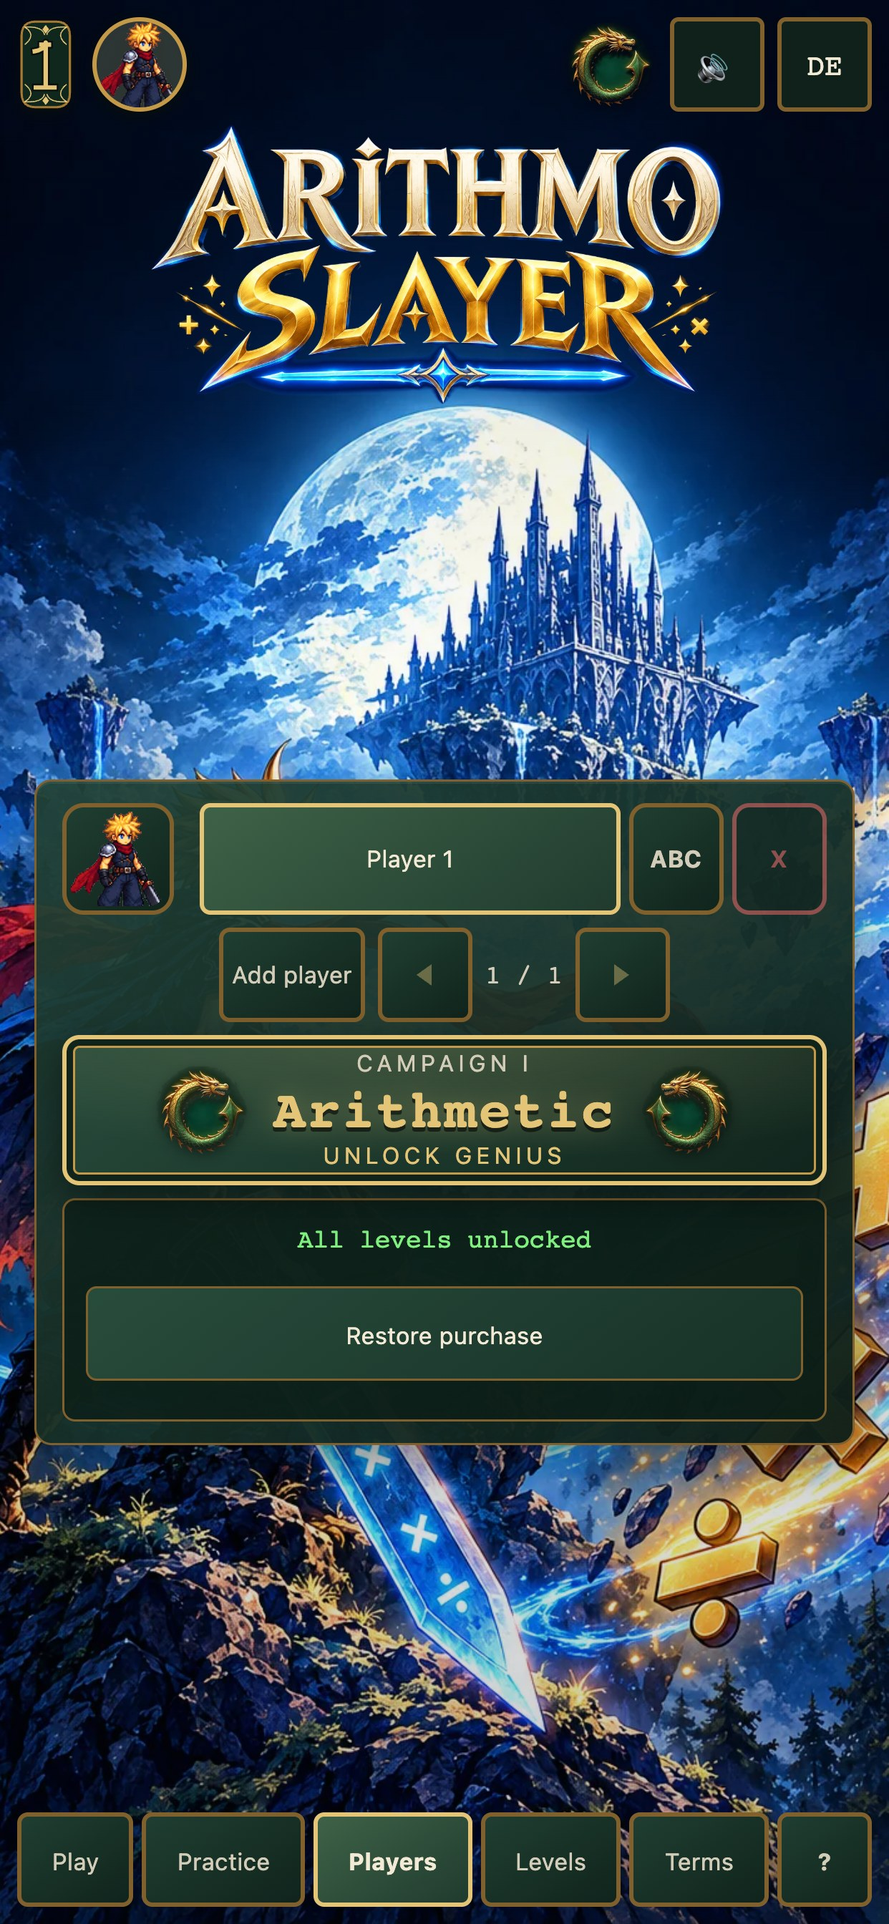
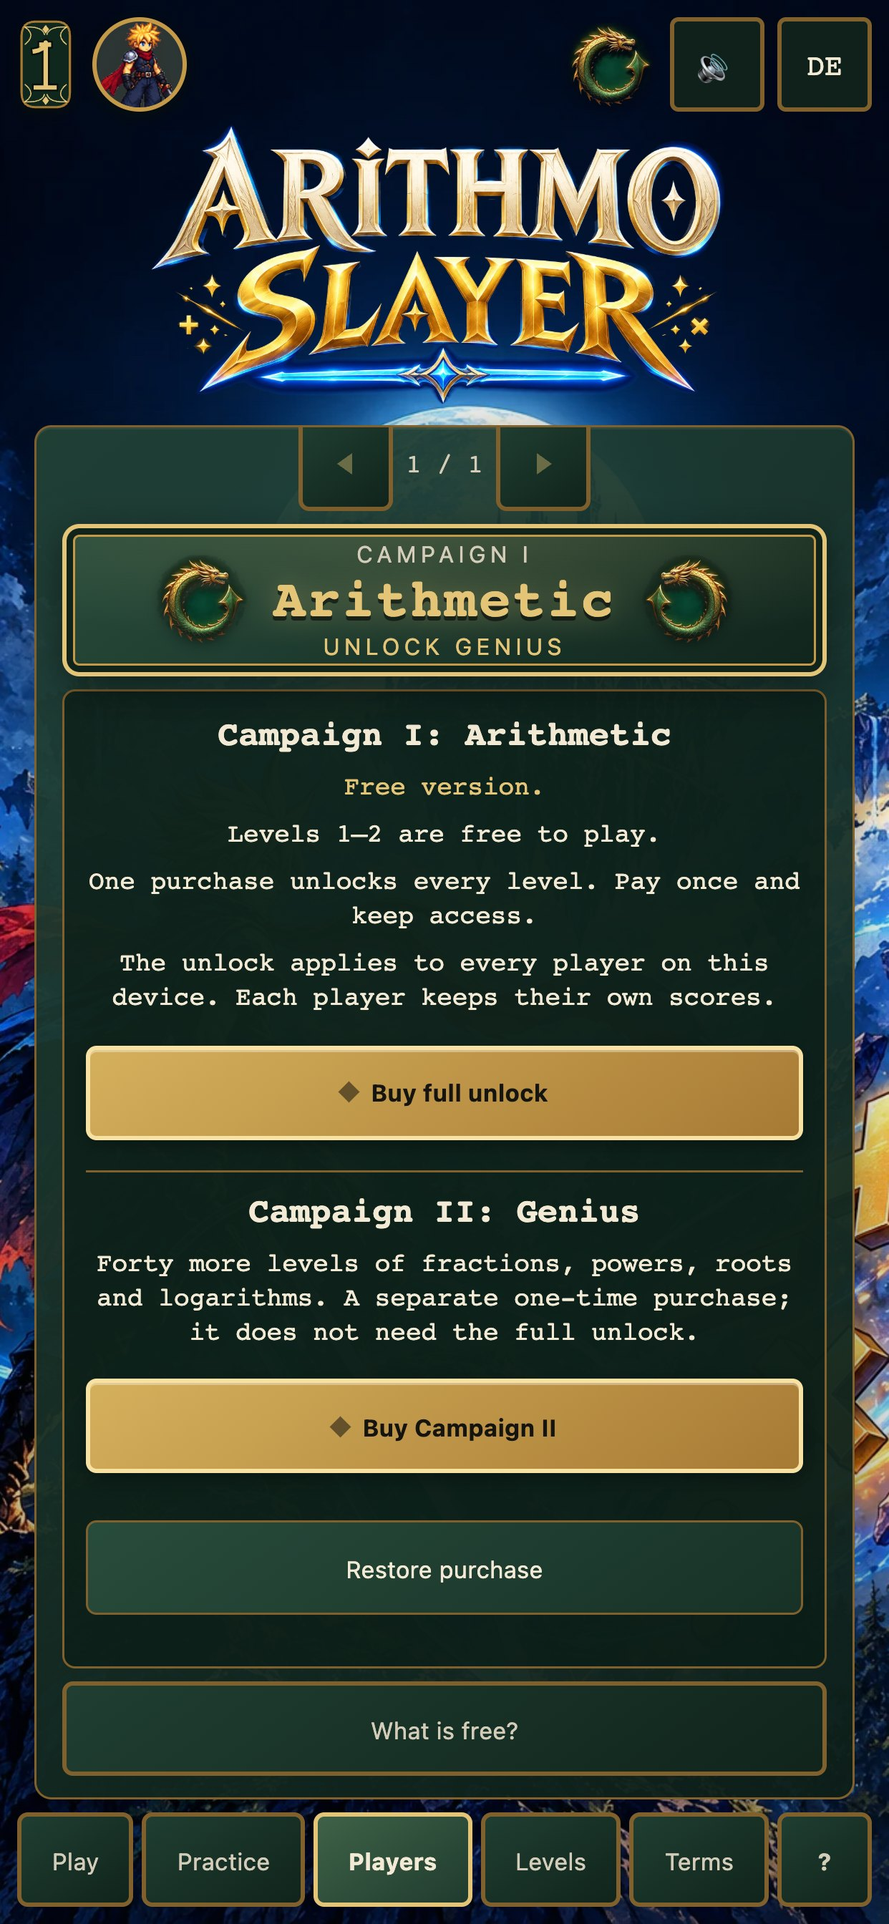
docs(ffm): manual, promo, review notes and review shots for an independent Campaign II
Manual (EN/DE): Campaign II needs no Campaign I progress or full unlock, the switch is
always on the Players page, both products are listed side by side with one Restore.
Promo: FAQ and comparison drop "after level 40" and say no full unlock is needed; the web
switch is in the profile. RELEASING.md App Review notes list both products, reachable on a
fresh install. store-art/review: recaptured on a fresh install (no level cleared, nothing
bought) showing both products on the Players page; the level-40 caveat is gone.
capture-review.py seeds a fresh install by default (FULL=1 / UPTO=n optional).

diff --git a/sites/ffm/mobile/legal/manual.de.html b/sites/ffm/mobile/legal/manual.de.html
@@ -44,8 +44,8 @@
 <h2 id="manual-campaign2">Abenteuer II: Genie</h2>
 <p>Abenteuer II hat 40 Level in acht Akten zu je fünf: Brüche, weitere Brüche, Potenzen, Wurzeln, Potenzgesetze, Wurzelterme, Logarithmen und eine abschließende Synthese. Jeder Akt beginnt mit einer kurzen Erklärung und einem Beispiel mit Rechenweg.</p>
 <p>Jede Aufgabe hat vier Antwortmöglichkeiten. Der Timer gibt mehr Zeit als die gewählte Schwierigkeit, vom 1,2-Fachen in Level 1 bis zum Doppelten in Level 40. Der Held beginnt mit allen Fähigkeiten. Der letzte Unhold von Level 10, 20, 30 und 40 ist eine Bossrunde.</p>
-<p>Der Abenteuer-Schalter auf der Spieler-Seite erscheint, sobald der aktive Spieler Level 40 von Abenteuer I geschafft hat, oder sofort auf einem Gerät, das Abenteuer II besitzt. Er nennt das gespielte Abenteuer, Rechnen oder Genie, und ein Tipp wechselt es. Die Wahl gilt pro Spieler; ist Genie gewählt, zeigt der Startbildschirm das Bild von Abenteuer II.</p>
-<p>Abenteuer II ist ein eigener Einmalkauf: „Genie freischalten“ auf dem Schalter öffnet ihn (siehe <a href="#manual-purchase">Kauf und Wiederherstellen</a>). Geschaffte Level von Abenteuer II werden pro Spieler auf diesem Gerät gespeichert; Abenteuer II speichert keine Punkte.</p>
+<p>Abenteuer II hängt nicht von Abenteuer I ab: Es lässt sich schon auf einer frischen Installation kaufen und spielen, ohne vorher ein Level zu schaffen und ohne Vollversion. Der Abenteuer-Schalter auf der Spieler-Seite ist immer da. Er nennt das gespielte Abenteuer, Rechnen oder Genie, und ein Tipp wechselt es. Die Wahl gilt pro Spieler; ist Genie gewählt, zeigt der Startbildschirm das Bild von Abenteuer II, und ein Tipp darauf öffnet die Spieler-Seite.</p>
+<p>Abenteuer II ist ein eigener Einmalkauf und steht auf der Spieler-Seite neben der Vollversion; auch „Genie freischalten“ auf dem Schalter öffnet ihn (siehe <a href="#manual-purchase">Kauf und Wiederherstellen</a>). Geschaffte Level von Abenteuer II werden pro Spieler auf diesem Gerät gespeichert; Abenteuer II speichert keine Punkte.</p>
 </section>
 <section data-manual-section="difficulty">
 <h2 id="manual-difficulty">Schwierigkeit</h2>
@@ -100,7 +100,7 @@
 <p>Die Spieler-Seite auf dem Titel verwaltet lokale Familien-Spieler: umbenennen, löschen und wechseln, und mit der Vollversion weitere Spieler hinzufügen. Jeder Spieler hat eigenen Fortschritt, eigene Punkte, eigene Übungsabzeichen, einen eigenen Helden und eine eigene Abenteuer-Wahl.</p>
 <p>Tippe auf das Porträt des aktiven Spielers, um eine Heldenfarbe zu wählen. Der getragene Held behält einen dicken Goldrahmen, der markierte bekommt einen dünnen Goldrahmen; „Held wechseln“ legt ihn an. Ari ist kostenlos; die anderen Heldenfarben gehören zur Vollversion.</p>
 <p>Ein Wechsel ist nur auf dem Titelbildschirm möglich und blockiert, solange Daten geschrieben werden oder ein Level startet. Mindestens ein Spieler muss bleiben; beim Löschen werden die Daten dieses Spielers entfernt.</p>
-<p>Auf der Spieler-Seite liegen auch der Abenteuer-Schalter und der Kaufbereich mit „Kauf wiederherstellen“. Ein Kauf schaltet Level 3–60 für alle Spieler dieses Geräts frei; die Punkte bleiben beim jeweiligen Spieler. Alles wird lokal auf dem Gerät gespeichert und ist in der Geräte- oder iCloud-Sicherung des Betriebssystems enthalten. Es gibt kein Konto.</p>
+<p>Auf der Spieler-Seite liegen auch der Abenteuer-Schalter und der Kaufbereich: die Vollversion (Abenteuer I) und Abenteuer II nebeneinander, jedes mit eigenem Kaufknopf, und ein „Kauf wiederherstellen“ für beide. Ein Kauf schaltet Level 3–60 für alle Spieler dieses Geräts frei; die Punkte bleiben beim jeweiligen Spieler. Alles wird lokal auf dem Gerät gespeichert und ist in der Geräte- oder iCloud-Sicherung des Betriebssystems enthalten. Es gibt kein Konto.</p>
 </section>
 <section data-manual-section="training">
 <h2 id="manual-training">Trainingsarten</h2>
@@ -118,7 +118,7 @@
 </section>
 <section data-manual-section="purchase">
 <h2 id="manual-purchase">Kauf und Wiederherstellen</h2>
-<p>Level 1–2 sind kostenlos. Der einmalige, nicht verbrauchbare Kauf schaltet Level 3–60, alle Heldenfarben und weitere Spieler frei. Abenteuer II ist ein zweiter, eigener Einmalkauf. Es gibt kein Abo und keine laufenden Kosten. Der Store zeigt den lokalen Preis und rechnet über Apple oder Google ab. Es gibt kein Backend und keinen Drittanbieter für Käufe.</p>
+<p>Level 1–2 sind kostenlos. Der einmalige, nicht verbrauchbare Kauf schaltet Level 3–60, alle Heldenfarben und weitere Spieler frei. Abenteuer II ist ein zweiter, eigener Einmalkauf; keiner der beiden Käufe setzt den anderen voraus. Es gibt kein Abo und keine laufenden Kosten. Der Store zeigt den lokalen Preis und rechnet über Apple oder Google ab. Es gibt kein Backend und keinen Drittanbieter für Käufe.</p>
 <p>Kauf und Wiederherstellung verlangen zuerst von einem Erwachsenen das Lösen einer ausgeschriebenen Multiplikation (Elternkontrolle).</p>
 <p>Der Store meldet Erfolg, Abbruch, Ausstehend oder Ask-to-Buy, bereits gekauft oder einen Fehler. Ein ausstehender Kauf schaltet die Level frei, sobald der Store ihn bestätigt.</p>
 <p>„Kauf wiederherstellen“ auf der Spieler-Seite stellt beide Käufe, die Vollversion und Abenteuer II, bei einer Neuinstallation oder auf einem neuen Gerät mit demselben Store-Konto wieder her. Die Freischaltungen werden für Offline-Spiel zwischengespeichert, beim Start und Fortsetzen aus dem Store aktualisiert und bei einer Rückerstattung entzogen. Beide Käufe gelten für das ganze Gerät.</p>

diff --git a/sites/ffm/mobile/legal/manual.en.html b/sites/ffm/mobile/legal/manual.en.html
@@ -44,8 +44,8 @@
 <h2 id="manual-campaign2">Campaign II: Genius</h2>
 <p>Campaign II has 40 levels in eight acts of five: fractions, more fractions, powers, roots, exponent laws, radicals, logarithms and a final synthesis. Each act opens with a short explanation and a worked example.</p>
 <p>Every question has four answer choices. The timer gives more time than the chosen difficulty, from 1.2 times at level 1 up to twice as long at level 40. The hero starts with every ability. The last fiend of levels 10, 20, 30 and 40 is a boss round.</p>
-<p>The campaign switch on the Players page appears once the active player has cleared level 40 of Campaign I, or at once on a device that owns Campaign II. It names the campaign being played, Arithmetic or Genius, and a tap changes it. The choice is kept for each player; while Genius is chosen, the title screen shows the Campaign II picture.</p>
-<p>Campaign II is a separate one-time purchase: “Unlock Genius” on the switch opens it (see <a href="#manual-purchase">Payment and restore</a>). Cleared Campaign II levels are saved for each player on this device; Campaign II records no scores.</p>
+<p>Campaign II does not depend on Campaign I: it can be bought and played on a fresh install, without clearing any level first and without the full unlock. The campaign switch on the Players page is always there. It names the campaign being played, Arithmetic or Genius, and a tap changes it. The choice is kept for each player; while Genius is chosen, the title screen shows the Campaign II picture, and a tap on it opens the Players page.</p>
+<p>Campaign II is a separate one-time purchase, listed on the Players page next to the full unlock; “Unlock Genius” on the switch opens it too (see <a href="#manual-purchase">Payment and restore</a>). Cleared Campaign II levels are saved for each player on this device; Campaign II records no scores.</p>
 </section>
 <section data-manual-section="difficulty">
 <h2 id="manual-difficulty">Difficulty</h2>
@@ -100,7 +100,7 @@
 <p>The Players page on the title manages local family players: rename, delete and switch, and, with the full unlock, add more players. Each player has separate progress, scores, practice badges, hero and campaign choice.</p>
 <p>Tap the active player's portrait to choose a hero colour scheme. The hero you wear keeps a thick gold frame and the one you highlight gets a thin gold frame; Change hero puts it on. Ari is free; the other colour schemes come with the full unlock.</p>
 <p>Switch players only on the title screen; switching is blocked while data is being written or a level is starting. At least one player must remain, and deleting a player removes that player's data.</p>
-<p>The Players page also holds the campaign switch and the purchase panel with Restore purchase. One purchase unlocks levels 3–60 for every player on the device; scores stay with each player. Everything is stored locally on the device and is included in the operating system's device or iCloud backup. There is no account.</p>
+<p>The Players page also holds the campaign switch and the purchase panel: the full unlock (Campaign I) and Campaign II side by side, each with its own buy button, and one Restore purchase for both. One purchase unlocks levels 3–60 for every player on the device; scores stay with each player. Everything is stored locally on the device and is included in the operating system's device or iCloud backup. There is no account.</p>
 </section>
 <section data-manual-section="training">
 <h2 id="manual-training">Training modes</h2>
@@ -118,7 +118,7 @@
 </section>
 <section data-manual-section="purchase">
 <h2 id="manual-purchase">Payment and restore</h2>
-<p>Levels 1–2 are free. The one-time, non-consumable purchase unlocks levels 3–60, all hero themes and adding more players. Campaign II is a second one-time purchase of its own. There is no subscription and no recurring charge. The store shows the local price and bills Apple or Google. There is no backend and no third-party purchase service.</p>
+<p>Levels 1–2 are free. The one-time, non-consumable purchase unlocks levels 3–60, all hero themes and adding more players. Campaign II is a second one-time purchase of its own; neither purchase needs the other. There is no subscription and no recurring charge. The store shows the local price and bills Apple or Google. There is no backend and no third-party purchase service.</p>
 <p>Purchase and restore first ask an adult to solve a written multiplication (parental gate).</p>
 <p>The store reports success, cancellation, pending or Ask-to-Buy, already owned, or an error. A pending purchase unlocks the levels once the store confirms it.</p>
 <p>Restore purchase on the Players page recovers both purchases, the full unlock and Campaign II, on a fresh install or a new device with the same store account. The entitlement is cached for offline play, refreshed from the store on launch and resume, and revoked on refund. Both purchases apply to the whole device.</p>

diff --git a/sites/ffm/static/promo/promo.js b/sites/ffm/static/promo/promo.js
@@ -278,7 +278,7 @@ export const DICTIONARY = {
   'prices.compare.r9app': { de: 'Nein, in der App ausgeblendet', en: 'No, hidden in the app' },
   'prices.compare.row10': { de: 'Abenteuer II: Genie', en: 'Campaign II: Genius' },
   'prices.compare.r10web': { de: 'Ja, im Abo enthalten', en: 'Yes, included in the subscription' },
-  'prices.compare.r10app': { de: 'Eigener Einmalkauf', en: 'Separate one-time purchase' },
+  'prices.compare.r10app': { de: 'Eigener Einmalkauf, auch ohne Vollversion', en: 'Separate one-time purchase, no full unlock needed' },
   'prices.compare.row8': { de: 'Kündigung', en: 'Cancellation' },
   'prices.compare.r8web': { de: 'Jederzeit im Konto', en: 'Anytime in your account' },
   'prices.compare.r8app': { de: 'Nicht nötig – kein Abo', en: 'Not needed – no subscription' },
@@ -349,8 +349,8 @@ export const DICTIONARY = {
   'faq.q7': { de: 'Brauchen Kinder in der App ein Konto?', en: 'Do kids need an account in the app?' },
   'faq.q8': { de: 'Was ist Abenteuer II: Genie?', en: 'What is Campaign II: Genius?' },
   'faq.a8': {
-    de: 'Das zweite Abenteuer nach Level 40: 40 Level mit Brüchen, Potenzen, Wurzeln und Logarithmen, mit vier Antworten pro Aufgabe und mehr Zeit. Im Web-Abo ist es enthalten, in der App ist es ein eigener Einmalkauf. Gewechselt wird auf der Spieler-Seite der App, im Web auf dem Startbildschirm.',
-    en: 'The second campaign after level 40: 40 levels of fractions, powers, roots and logarithms, with four answers per question and more time. It is included in the web subscription and a separate one-time purchase in the app. You switch campaigns on the app\'s Players page, or on the title screen on the web.',
+    de: 'Das zweite Abenteuer: 40 Level mit Brüchen, Potenzen, Wurzeln und Logarithmen, mit vier Antworten pro Aufgabe und mehr Zeit. Es hängt nicht vom ersten ab und ist sofort spielbar, ohne vorher ein Level zu schaffen. Im Web-Abo ist es enthalten; in der App ist es ein eigener Einmalkauf, der die Vollversion nicht voraussetzt. Gewechselt wird auf der Spieler-Seite der App, im Web im Profil.',
+    en: 'The second campaign: 40 levels of fractions, powers, roots and logarithms, with four answers per question and more time. It does not depend on the first one and can be played straight away, with no level to clear first. It is included in the web subscription; in the app it is a separate one-time purchase that does not need the full unlock. You switch campaigns on the app\'s Players page, or in your profile on the web.',
   },
   'faq.a7': { de: 'Nein. In der App legst du lokale Profile an – ohne E-Mail-Adresse und ohne Passwort.', en: 'No. In the app you create local profiles – no email address, no password.' },
 

diff --git a/sites/ffm/static/promo/index.html b/sites/ffm/static/promo/index.html
@@ -526,7 +526,7 @@
               <tr>
                 <th scope="row" data-i18n="prices.compare.row10">Abenteuer II: Genie</th>
                 <td data-i18n="prices.compare.r10web">Ja, im Abo enthalten</td>
-                <td data-i18n="prices.compare.r10app">Eigener Einmalkauf</td>
+                <td data-i18n="prices.compare.r10app">Eigener Einmalkauf, auch ohne Vollversion</td>
               </tr>
               <tr>
                 <th scope="row" data-i18n="prices.compare.row8">Kündigung</th>
@@ -654,7 +654,7 @@
           </details>
           <details class="faq-item reveal">
             <summary data-i18n="faq.q8">Was ist Abenteuer II: Genie?</summary>
-            <p data-i18n="faq.a8">Das zweite Abenteuer nach Level 40: 40 Level mit Brüchen, Potenzen, Wurzeln und Logarithmen, mit vier Antworten pro Aufgabe und mehr Zeit. Im Web-Abo ist es enthalten, in der App ist es ein eigener Einmalkauf. Gewechselt wird auf der Spieler-Seite der App, im Web auf dem Startbildschirm.</p>
+            <p data-i18n="faq.a8">Das zweite Abenteuer: 40 Level mit Brüchen, Potenzen, Wurzeln und Logarithmen, mit vier Antworten pro Aufgabe und mehr Zeit. Es hängt nicht vom ersten ab und ist sofort spielbar, ohne vorher ein Level zu schaffen. Im Web-Abo ist es enthalten; in der App ist es ein eigener Einmalkauf, der die Vollversion nicht voraussetzt. Gewechselt wird auf der Spieler-Seite der App, im Web im Profil.</p>
           </details>
         </div>
       </div>

diff --git a/sites/ffm/static/promo/promo.test.js b/sites/ffm/static/promo/promo.test.js
@@ -732,4 +732,11 @@ test('promo copy uses the game\'s own names and current facts', () => {
   assert.doesNotMatch(all, /Drache als Boss|dragon as the boss|am Ende des Feldzugs/, 'the dragon is a combo ability, not a boss');
   assert.doesNotMatch(all, /Die Apps erscheinen später|apps will arrive in the stores later/,
     'the iPhone app is already live');
+  // Campaign II is independent of Campaign I (owner decision after #586): no level-40 gate,
+  // no full unlock needed in the app, and the web switch is in the profile.
+  assert.doesNotMatch(DICTIONARY['faq.a8'].de + DICTIONARY['faq.a8'].en, /Level 40|level 40|Startbildschirm|title screen/);
+  assert.match(DICTIONARY['faq.a8'].en, /does not need the full unlock/);
+  assert.match(DICTIONARY['faq.a8'].de, /die Vollversion nicht voraussetzt/);
+  assert.match(DICTIONARY['faq.a8'].en, /in your profile on the web/);
+  assert.match(DICTIONARY['prices.compare.r10app'].en, /no full unlock needed/);
 });

diff --git a/sites/ffm/store-art/tools/capture-review.py b/sites/ffm/store-art/tools/capture-review.py
@@ -1,16 +1,21 @@
 #!/usr/bin/env python3
-"""Capture app-bundle screens (mobile/www) for the Campaign II purchase review.
+"""Capture app-bundle screens (mobile/www) for the in-app purchase review.
 
 Build the bundle first (`cd sites/ffm/mobile && npm ci && npm run copy-assets`), then:
 
-  python3 sites/ffm/store-art/tools/capture-review.py sites/ffm/mobile/www OUT_DIR en paywall
+  python3 sites/ffm/store-art/tools/capture-review.py sites/ffm/mobile/www OUT_DIR en players
 
 LOCALE is en or de; SCENE is players | paywall | title. The default viewport 414x896 at
-3x gives 1242x2688 PNGs; convert them to JPEG for store-art/review/. UPTO=n seeds a player
-who has cleared levels 1..n (default 60, which also reveals the campaign switch; the
-reveal flag is set anyway). Needs Playwright with the Chrome channel.
+3x gives 1242x2688 PNGs; convert them to JPEG for store-art/review/.
+
+The default install is a fresh one: one player, no level cleared, nothing bought. That is
+what App Review sees, and it shows that both products, the full unlock (Campaign I) and
+Campaign II (Genius), are offered side by side on the Players page with no level to beat
+first. FULL=1 makes the store own the full unlock, UPTO=n seeds a player who has cleared
+levels 1..n; neither changes where Campaign II is offered. Needs Playwright with the Chrome
+channel.
 """
-import functools, http.server, json, socketserver, sys, threading
+import functools, http.server, json, os, socketserver, sys, threading
 from pathlib import Path
 from playwright.sync_api import sync_playwright
 
@@ -18,18 +23,22 @@ www, out, locale, scene = Path(sys.argv[1]), Path(sys.argv[2]), sys.argv[3], sys
 width = int(sys.argv[5]) if len(sys.argv) > 5 else 414
 height = int(sys.argv[6]) if len(sys.argv) > 6 else 896
 out.mkdir(parents=True, exist_ok=True)
+owns_full = os.environ.get("FULL") == "1"
+upto = int(os.environ.get("UPTO", "0"))
 PID = 'review-player'
 name = 'Spieler 1' if locale == 'de' else 'Player 1'
-ENT = {"version": 1, "entitled": True, "product_id": "arithmoslayer_full_unlock",
-       "transaction_id": "t-full", "checked_at": "2026-11-18T00:00:00.000Z", "reason": "store_purchase"}
 PROFILES = {"version": 1, "activeProfileId": PID, "profiles": [{
-    "id": PID, "name": name, "best": [], "history": [], "completed": list(range(1, int(__import__("os").environ.get("UPTO", "60")) + 1)), "completions": {}}]}
+    "id": PID, "name": name, "best": [], "history": [], "completed": list(range(1, upto + 1)), "completions": {}}]}
 NOTICE = {"version": 1, "acknowledged": True, "acknowledged_at": "2026-11-18T00:00:00.000Z"}
 seed = {
-    "arithmoslayer:entitlement": ENT,
     "arithmoslayer:profiles": PROFILES,
     "arithmoslayer:first-open-notice": NOTICE,
 }
+if owns_full:
+    seed["arithmoslayer:entitlement"] = {
+        "version": 1, "entitled": True, "product_id": "arithmoslayer_full_unlock",
+        "transaction_id": "t-full", "checked_at": "2026-11-18T00:00:00.000Z", "reason": "store_purchase"}
+purchases = [{"productIdentifier": "arithmoslayer_full_unlock", "transactionId": "t-full"}] if owns_full else []
 init = """
 window.Capacitor = { Plugins: {
   Preferences: {
@@ -38,19 +47,18 @@ window.Capacitor = { Plugins: {
     remove: async (o) => { localStorage.removeItem(o.key); },
     keys: async () => ({ keys: Object.keys(localStorage) }),
   },
-  // A store account that owns the full unlock but not Campaign II. No price is
-  // reported, so the app shows its generic buy label instead of an invented amount.
+  // A store account that owns nothing (or, with FULL=1, only the full unlock). No price is
+  // reported, so the app shows its generic buy labels instead of an invented amount.
   NativePurchases: {
     getProduct: async () => ({ product: null }),
-    getPurchases: async () => ({ purchases: [{ productIdentifier: 'arithmoslayer_full_unlock', transactionId: 't-full' }] }),
+    getPurchases: async () => ({ purchases: %s }),
     purchaseProduct: async () => { throw new Error('cancelled'); },
     restorePurchases: async () => {},
     acknowledgePurchase: async () => {},
   },
 } };
-""" + "".join("localStorage.setItem(%s, %s);\n" % (json.dumps(k), json.dumps(json.dumps(v))) for k, v in seed.items()) + f"""
+""" % json.dumps(purchases) + "".join("localStorage.setItem(%s, %s);\n" % (json.dumps(k), json.dumps(json.dumps(v))) for k, v in seed.items()) + f"""
 localStorage.setItem('arithmoslayer:story-intro-open-shown', '1');
-localStorage.setItem('arithmoslayer:genius:{PID}', '1');
 localStorage.setItem('ffm_locale', '{locale}');
 """
 
@@ -75,8 +83,14 @@ with socketserver.TCPServer(("127.0.0.1", 0), handler) as httpd:
         page.wait_for_timeout(2500)
         if scene in ("players", "paywall"):
             page.locator("#title-family-btn").click()
-            page.wait_for_timeout(800)
-            page.locator("#genius-campaign-btn").scroll_into_view_if_needed()
+            page.wait_for_timeout(1000)
+            page.wait_for_selector("[data-entitlement-campaign2]", timeout=5000)
+            # Scroll the Players page so the switch and both products are in view.
+            page.evaluate("""() => {
+              const pageEl = document.getElementById('local-profiles');
+              const sw = document.getElementById('genius-campaign');
+              pageEl.scrollTop = Math.max(0, sw.offsetTop - pageEl.offsetTop - 8);
+            }""")
             page.wait_for_timeout(400)
         if scene == "paywall":
             page.locator("#genius-campaign-btn").click()

diff --git a/sites/ffm/mobile/RELEASING.md b/sites/ffm/mobile/RELEASING.md
@@ -618,8 +618,13 @@ the uploaded build number in the release record.
   and restore flow (Google Play Billing or StoreKit).
 - There are no accounts, no login, no public leaderboard, no ads, no analytics
   and no data collection.
-- One non-consumable in-app purchase (`arithmoslayer_full_unlock`) unlocks
-  levels 3-60. "Restore purchase" is visible on the paywall and title screen.
+- Two independent non-consumable in-app purchases, listed side by side on the
+  Players page (title screen, "Players" tab): `arithmoslayer_full_unlock`
+  unlocks levels 3-60 of Campaign I, and `arithmoslayer_genius_unlock` unlocks
+  Campaign II (Genius). Neither needs the other and neither needs any game
+  progress, so both are reachable on a fresh install. One "Restore purchase"
+  on the Players page (and on the paywall) restores both. Screenshots:
+  `store-art/review/`.
 - A parental gate (a written-out multiplication) guards the purchase, the
   restore and every external link, because the audience includes children.
 - Progress is stored on device and included in OS backup (Android Auto Backup /
